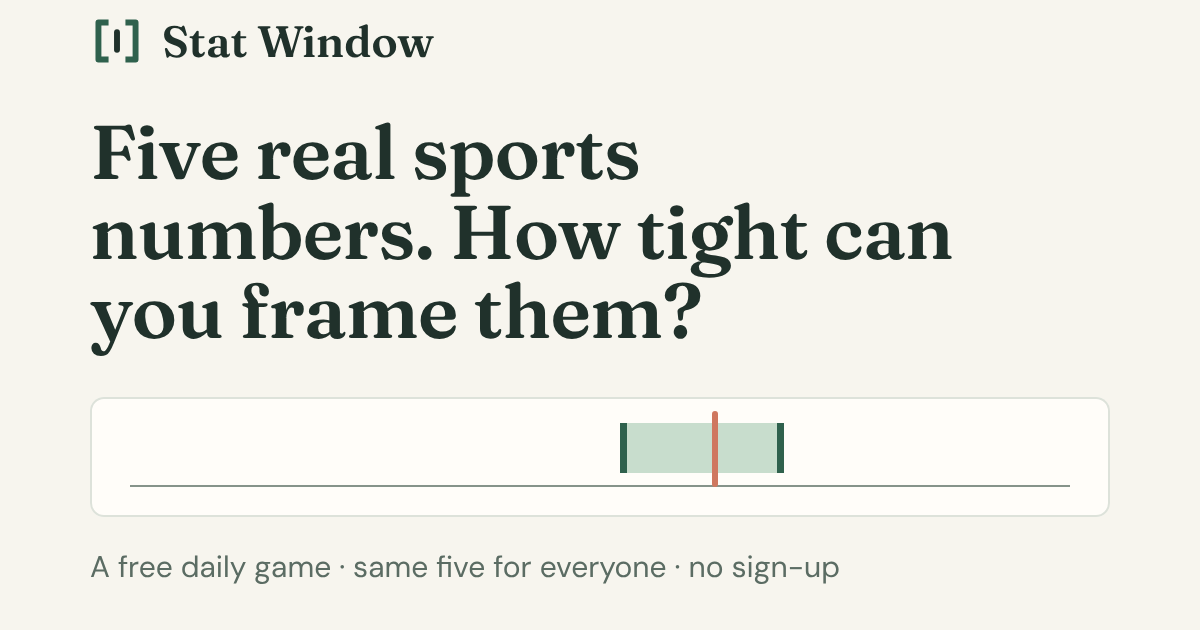
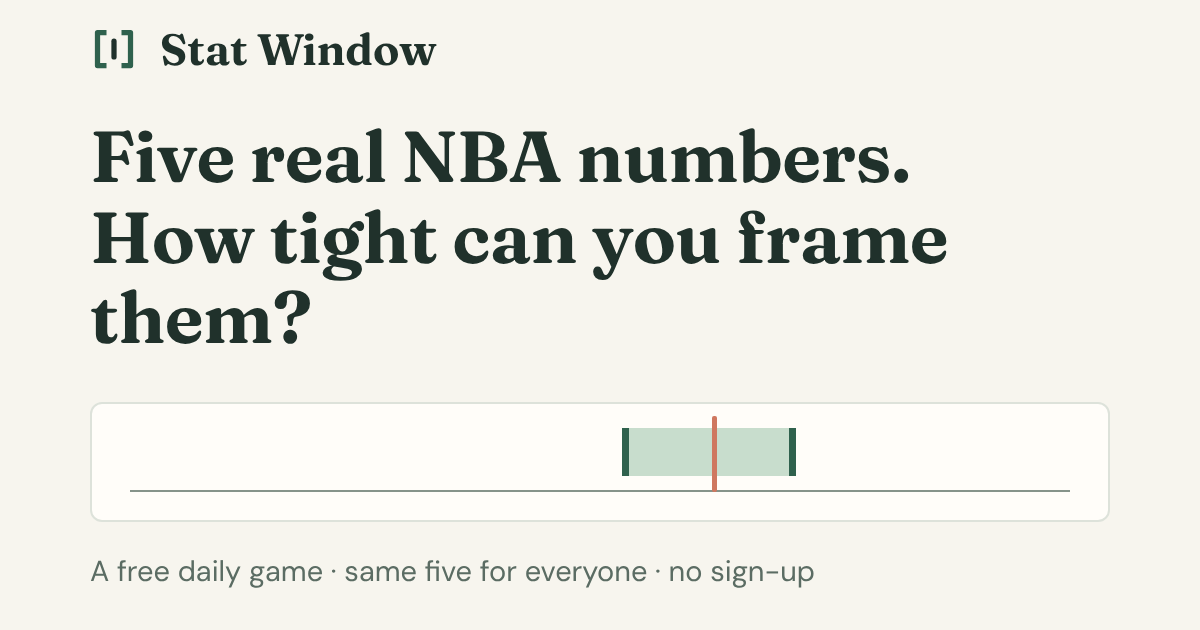
NBA transition: label mixed-sport archive days, say when NBA-only starts, NBA share image
The share image is rendered from scripts/og/og.html (no dates or answers).
src/content/cutover.ts mirrors the calendar cutover; reschedule updates it and a
test fails if they differ.

Claude-Session: https://claude.ai/code/session_01Fy88h9ssqgvQGEnifagGMV

diff --git a/scripts/og/og.html b/scripts/og/og.html
@@ -1,0 +1,20 @@
+<!doctype html>
+<html><head><meta charset="utf-8">
+<style>
+@font-face { font-family: 'Fraunces'; src: url('../../node_modules/@fontsource-variable/fraunces/files/fraunces-latin-wght-normal.woff2') format('woff2'); font-weight: 100 900; }
+@font-face { font-family: 'DM Sans'; src: url('../../node_modules/@fontsource-variable/dm-sans/files/dm-sans-latin-wght-normal.woff2') format('woff2'); font-weight: 100 1000; }
+html, body { margin: 0; width: 1200px; height: 630px; background: #f7f5ee; color: #20312b; }
+.wrap { padding: 18px 90px 0; }
+.brand { display: flex; align-items: center; gap: 22px; font: 650 44px 'Fraunces'; margin-top: 4px; }
+h1 { font: 650 72px/1.12 'Fraunces'; margin: 40px 0 0; max-width: 900px; letter-spacing: -0.5px; }
+.card { margin-top: 44px; height: 116px; border: 2px solid #dde2da; border-radius: 12px; background: #fffdf9; position: relative; }
+.axis { position: absolute; left: 38px; right: 38px; top: 86px; height: 2px; background: #86938a; }
+.band { position: absolute; left: 530px; width: 160px; top: 24px; height: 48px; background: #c8ddcd; border-left: 7px solid #2f614d; border-right: 7px solid #2f614d; }
+.answer { position: absolute; left: 620px; top: 12px; width: 5px; height: 76px; background: #cf775f; border-radius: 2px; }
+.foot { margin-top: 30px; font: 400 29px 'DM Sans'; color: #5b6c63; }
+</style></head><body><div class="wrap">
+<div class="brand"><svg width="48" height="48" viewBox="0 0 32 32"><path d="M11 5H5v22h6M21 5h6v22h-6" stroke="#2f614d" stroke-width="3.5" fill="none" stroke-linejoin="round"/><rect x="14.25" y="9" width="3.5" height="14" rx="1.75" fill="#20312b"/></svg>Stat Window</div>
+<h1>Five real NBA numbers. How tight can you frame them?</h1>
+<div class="card"><div class="axis"></div><div class="band"></div><div class="answer"></div></div>
+<div class="foot">A free daily game · same five for everyone · no sign-up</div>
+</div></body></html>

diff --git a/src/ui/Help.tsx b/src/ui/Help.tsx
@@ -1,5 +1,7 @@
 import { useEffect, useRef } from 'react';
 import { analyticsEnabled } from '../lib/track';
+import { NBA_CUTOVER } from '../content/cutover';
+import { formatDay } from '../lib/format';
 
 export function Help({ open, onClose }: { open: boolean; onClose: () => void }) {
   const ref = useRef<HTMLDialogElement>(null);
@@ -58,7 +60,7 @@ export function Help({ open, onClose }: { open: boolean; onClose: () => void }) 
           (Shift moves further, Enter locks). Tap the ruler outside your window to pull that side straight to it.
         </p>
         <p className="help-small">
-          A new puzzle opens every day at midnight UTC, the same five for everyone. Your progress stays in this browser;
+          A new puzzle opens every day at midnight UTC, the same five for everyone. From {formatDay(NBA_CUTOVER)} every puzzle is NBA; the earlier mixed-sport days stay playable. Your progress stays in this browser;
           there’s no account.{' '}
           {analyticsEnabled
             ? 'We count anonymous plays (rounds locked, games finished, shares) to improve the game: no cookies, no names, nothing typed. Browsers set to Do Not Track or Global Privacy Control are not counted.'

diff --git a/scripts/nba/reschedule.ts b/scripts/nba/reschedule.ts
@@ -12,6 +12,7 @@ import { addDays, puzzleDay } from '../../src/engine/daily.ts';
 import type { Calendar } from './model.ts';
 
 export const CALENDAR_PATH = join(import.meta.dirname, '..', '..', 'data', 'nba', 'calendar.json');
+export const CUTOVER_TS = join(import.meta.dirname, '..', '..', 'src', 'content', 'cutover.ts');
 
 export function reschedule(calendar: Calendar, cutover: string, today: string): Calendar {
   if (!/^\d{4}-\d{2}-\d{2}$/.test(cutover)) throw new Error(`not a date: ${cutover}`);
@@ -29,5 +30,7 @@ if (process.argv[1]?.endsWith('reschedule.ts')) {
   const cal = JSON.parse(readFileSync(CALENDAR_PATH, 'utf8')) as Calendar;
   const next = reschedule(cal, cutover, puzzleDay(new Date()));
   writeFileSync(CALENDAR_PATH, `${JSON.stringify(next, null, 2)}\n`);
+  const ts = readFileSync(CUTOVER_TS, 'utf8').replace(/NBA_CUTOVER = '\d{4}-\d{2}-\d{2}'/, `NBA_CUTOVER = '${cutover}'`);
+  writeFileSync(CUTOVER_TS, ts);
   console.log(`NBA calendar: ${next.days.length} days, ${next.days[0]!.date} → ${next.days.at(-1)!.date}`);
 }

diff --git a/src/ui/Results.tsx b/src/ui/Results.tsx
@@ -5,6 +5,7 @@ import { msUntilNextPuzzle } from '../engine/daily';
 import { totalPoints, type Mode, type RoundRecord } from '../engine/game';
 import { MAX_TOTAL, shareText, verdict, type PlayerStats } from '../engine/summary';
 import { formatCountdown, formatDay, formatValue } from '../lib/format';
+import { isMixedSportDay } from '../content/cutover';
 import { track, type PlayMode } from '../lib/track';
 import { useNow } from './hooks';
 
@@ -211,6 +212,7 @@ export function Results({ slate, number, mode, playMode, isToday, vs, results, s
               <li key={day}>
                 <button type="button" className="btn btn-quiet" onClick={() => onPractice(day)}>
                   {formatDay(day)}
+                  {isMixedSportDay(day) && <span className="archive-tag"> · mixed sports</span>}
                 </button>
               </li>
             ))}

diff --git a/scripts/nba/nba.test.ts b/scripts/nba/nba.test.ts
@@ -8,6 +8,7 @@ import {
 import { checkLock as checkPublishedLock, nextLock, parseSlate, scoringFingerprint } from '../../src/content/schema.ts';
 import { DAYS_DIR, laterDay, planPublish, readLock } from './publish.ts';
 import { reschedule } from './reschedule.ts';
+import { NBA_CUTOVER } from '../../src/content/cutover.ts';
 import { reportFiles } from './report.ts';
 
 const real = loadNbaData();
@@ -143,6 +144,9 @@ describe('Content versioning', () => {
     expect(plan.problems).toEqual([]);
     expect(plan.write).toEqual([]);
     expect(plan.remove).toEqual([]);
+  });
+  it('the app and the calendar agree on the cutover', () => {
+    expect(NBA_CUTOVER).toBe(real.calendar.cutover);
   });
   it('--today can only make the rule stricter', () => {
     expect(laterDay('2026-01-01', '2026-11-16')).toBe('2026-11-16');

diff --git a/src/App.tsx b/src/App.tsx
@@ -1,4 +1,5 @@
 import { useCallback, useEffect, useMemo, useReducer, useRef, useState } from 'react';
+import { isMixedSportDay } from './content/cutover';
 import { inventoryDays, loadSlate } from './content/inventory';
 import type { Slate } from './content/schema';
 import { parseChallenge } from './engine/challenge';
@@ -354,6 +355,7 @@ function NoPuzzle({ today, archive, onPractice }: { today: string; archive: read
             <li key={day}>
               <button type="button" className="btn btn-quiet" onClick={() => onPractice(day)}>
                 {formatDay(day)}
+                {isMixedSportDay(day) && <span className="archive-tag"> · mixed sports</span>}
               </button>
             </li>
           ))}

diff --git a/index.html b/index.html
@@ -14,7 +14,7 @@
     <meta property="og:image" content="https://stat-window.vercel.app/og.png" />
     <meta property="og:image:width" content="1200" />
     <meta property="og:image:height" content="630" />
-    <meta property="og:image:alt" content="Stat Window: five real numbers. How tight can you frame them?" />
+    <meta property="og:image:alt" content="Stat Window: five real NBA numbers. How tight can you frame them?" />
     <meta name="twitter:card" content="summary_large_image" />
     <link rel="icon" href="/favicon.svg" type="image/svg+xml" />
   </head>

diff --git a/src/content/cutover.ts b/src/content/cutover.ts
@@ -1,0 +1,8 @@
+/**
+ * First NBA-only day (UTC). Earlier days are the mixed-sport launch puzzles and
+ * stay playable. Kept equal to data/nba/calendar.json `cutover` by
+ * `npm run nba:reschedule` (a test fails if they differ).
+ */
+export const NBA_CUTOVER = '2026-11-17';
+
+export const isMixedSportDay = (day: string): boolean => day < NBA_CUTOVER;

diff --git a/src/styles.css b/src/styles.css
@@ -1347,6 +1347,11 @@ a {
   color: var(--ink-soft);
 }
 
+.archive-tag {
+  font-weight: 400;
+  color: var(--ink-soft);
+}
+
 .archive-list {
   display: flex;
   flex-wrap: wrap;
